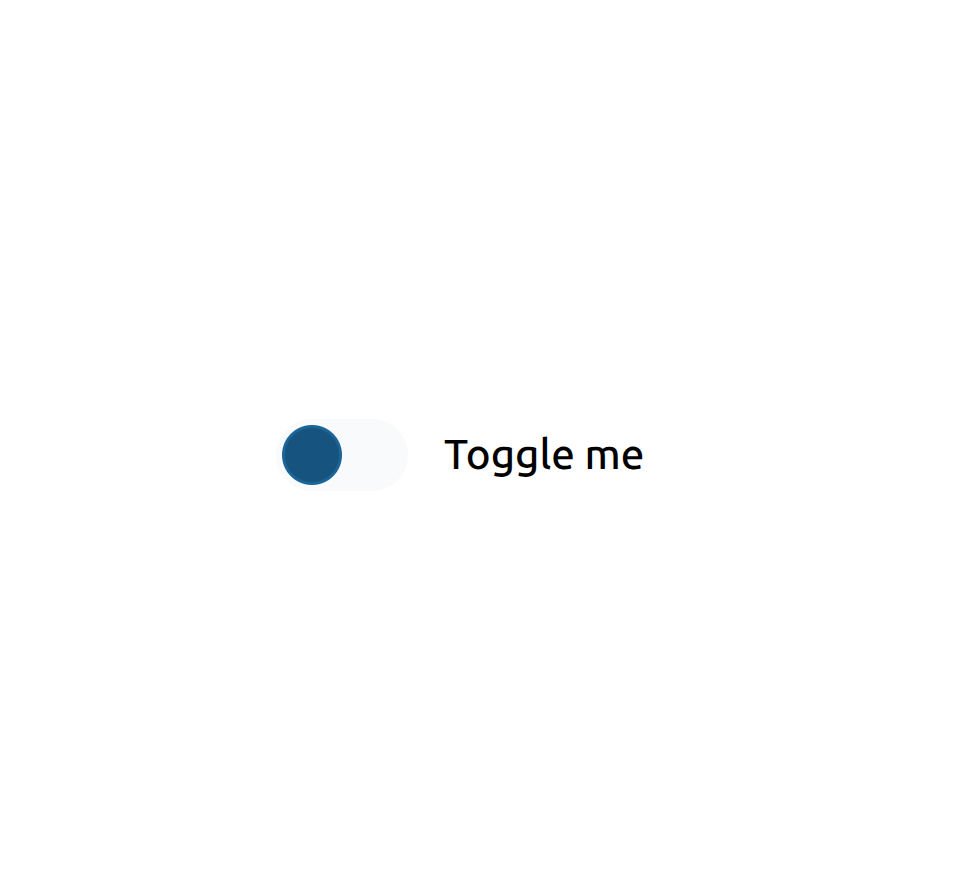
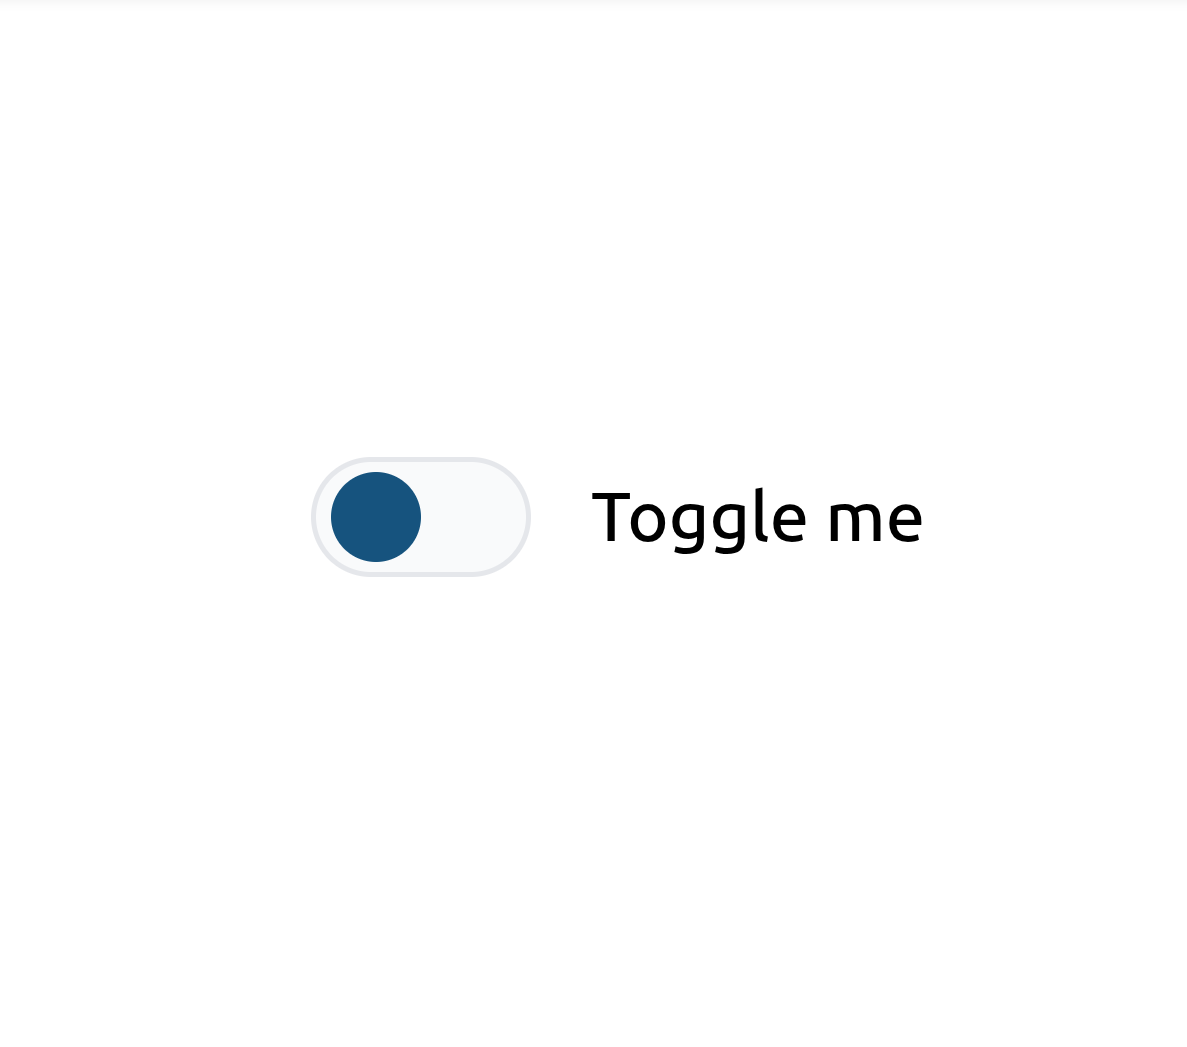
chore: update toggle style and docs image

Changed region(s): [[0.4312, 0.4688, 0.77, 0.5312], [0.2772, 0.4375, 0.4312, 0.5625], [0.4004, 0.5312, 0.4312, 0.5625]]

diff --git a/adminforth/spa/src/afcl/Toggle.vue b/adminforth/spa/src/afcl/Toggle.vue
@@ -1,17 +1,17 @@
 <template>
-    <label class="inline-flex items-center cursor-pointer" :class="{'opacity-50' : props.disabled}">
+    <label class="inline-flex items-center cursor-pointer bor" :class="{'opacity-50' : props.disabled}">
         <input :id="id" 
             type="checkbox" 
             value="" class="sr-only peer" 
             :disabled="props.disabled"
             :checked="props.modelValue"
             @change="$emit('update:modelValue', $event.target.checked)"
-            >   
-            <div class="relative min-w-11 h-6 bg-lightToggleBgUnactive peer-focus:outline-none peer-focus:ring-4 
+            > 
+            <div class="border border-lightToggleBorderUnactive relative min-w-11 min-h-6 bg-lightToggleBgUnactive peer-focus:outline-none peer-focus:ring-4 
                 peer-focus:ring-lightToggleRing dark:peer-focus:ring-darkToggleRing rounded-full peer dark:bg-darkToggleBgUnactive 
-                peer-checked:after:translate-x-full rtl:peer-checked:after:-translate-x-full 
-                peer-checked:after:border-lightToggleBorderActive after:content-[''] after:absolute after:top-[2px] 
-                after:start-[2px] after:bg-lightToggleCircleUnactive peer-checked:after:bg-lightToggleCircleActive dark:after:bg-darkToggleCircleUnactive after:border-lightToggleBorderUnactive dark:after:border-darkToggleBorderUnactive after:border after:rounded-full 
+                peer-checked:after:translate-x-full rtl:peer-checked:after:-translate-x-full peer-checked:after:top-[2px] peer-checked:border-none 
+                peer-checked:after:border-lightToggleBorderActive  after:content-[''] after:absolute after:top-[1px] 
+                after:start-[2px] after:bg-lightToggleCircleUnactive peer-checked:after:bg-lightToggleCircleActive dark:after:bg-darkToggleCircleUnactive after:border-lightToggleBgUnactive dark:after:border-darkToggleBgUnactive after:border after:rounded-full 
                 after:h-5 after:w-5 after:transition-all dark:border-darkToggleBorderUnactive peer-checked:bg-lightToggleBgActive 
                 dark:peer-checked:bg-darkToggleBgActive dark:peer-checked:after:border-darkToggleBorderActive dark:peer-checked:after:bg-darkToggleCircleActive">
             </div>

diff --git a/adminforth/modules/styles.ts b/adminforth/modules/styles.ts
@@ -82,7 +82,7 @@ export const styles = () => ({
     lightToggleCircleActive: "#F9FAFB",
     lightToggleRing: "alias:lightPrimary lighten",
     lightToggleText: "black", 
-    lightToggleBorderUnactive: "alias:lightPrimary lighten",
+    lightToggleBorderUnactive: "#E5E7EB",
     lightToggleBorderActive: "alias:lightPrimary darken",
 
     // colors for dark theme
